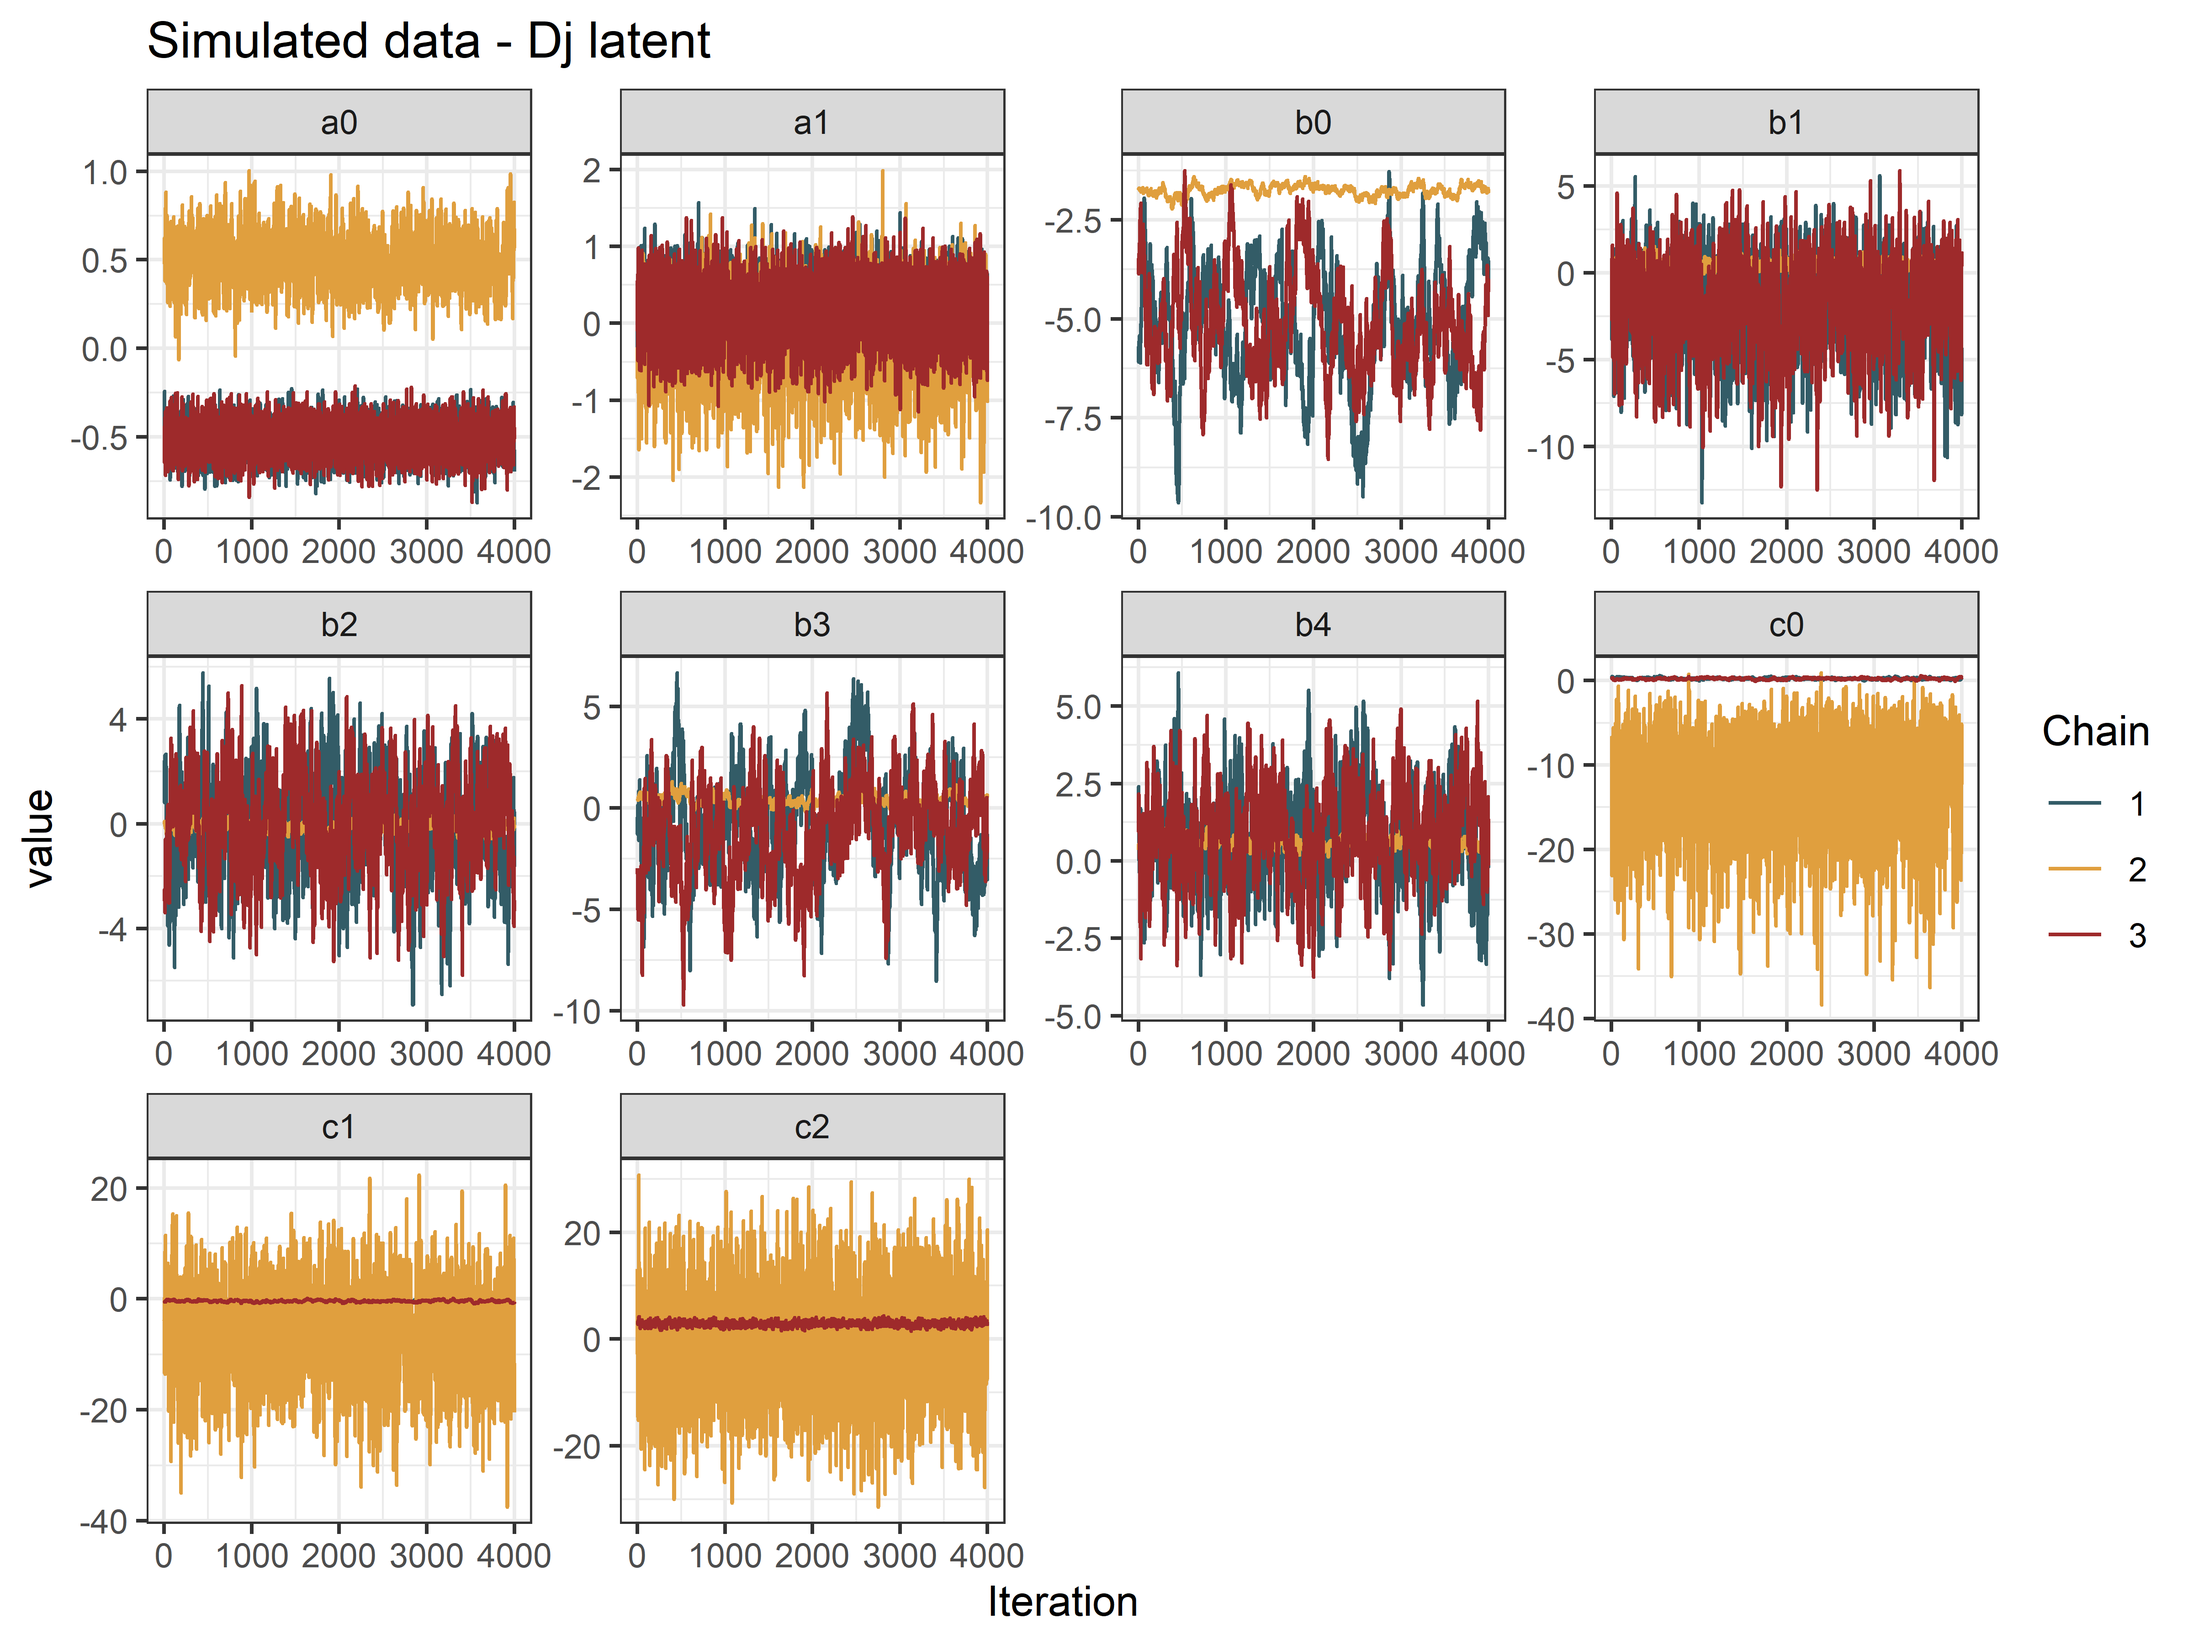
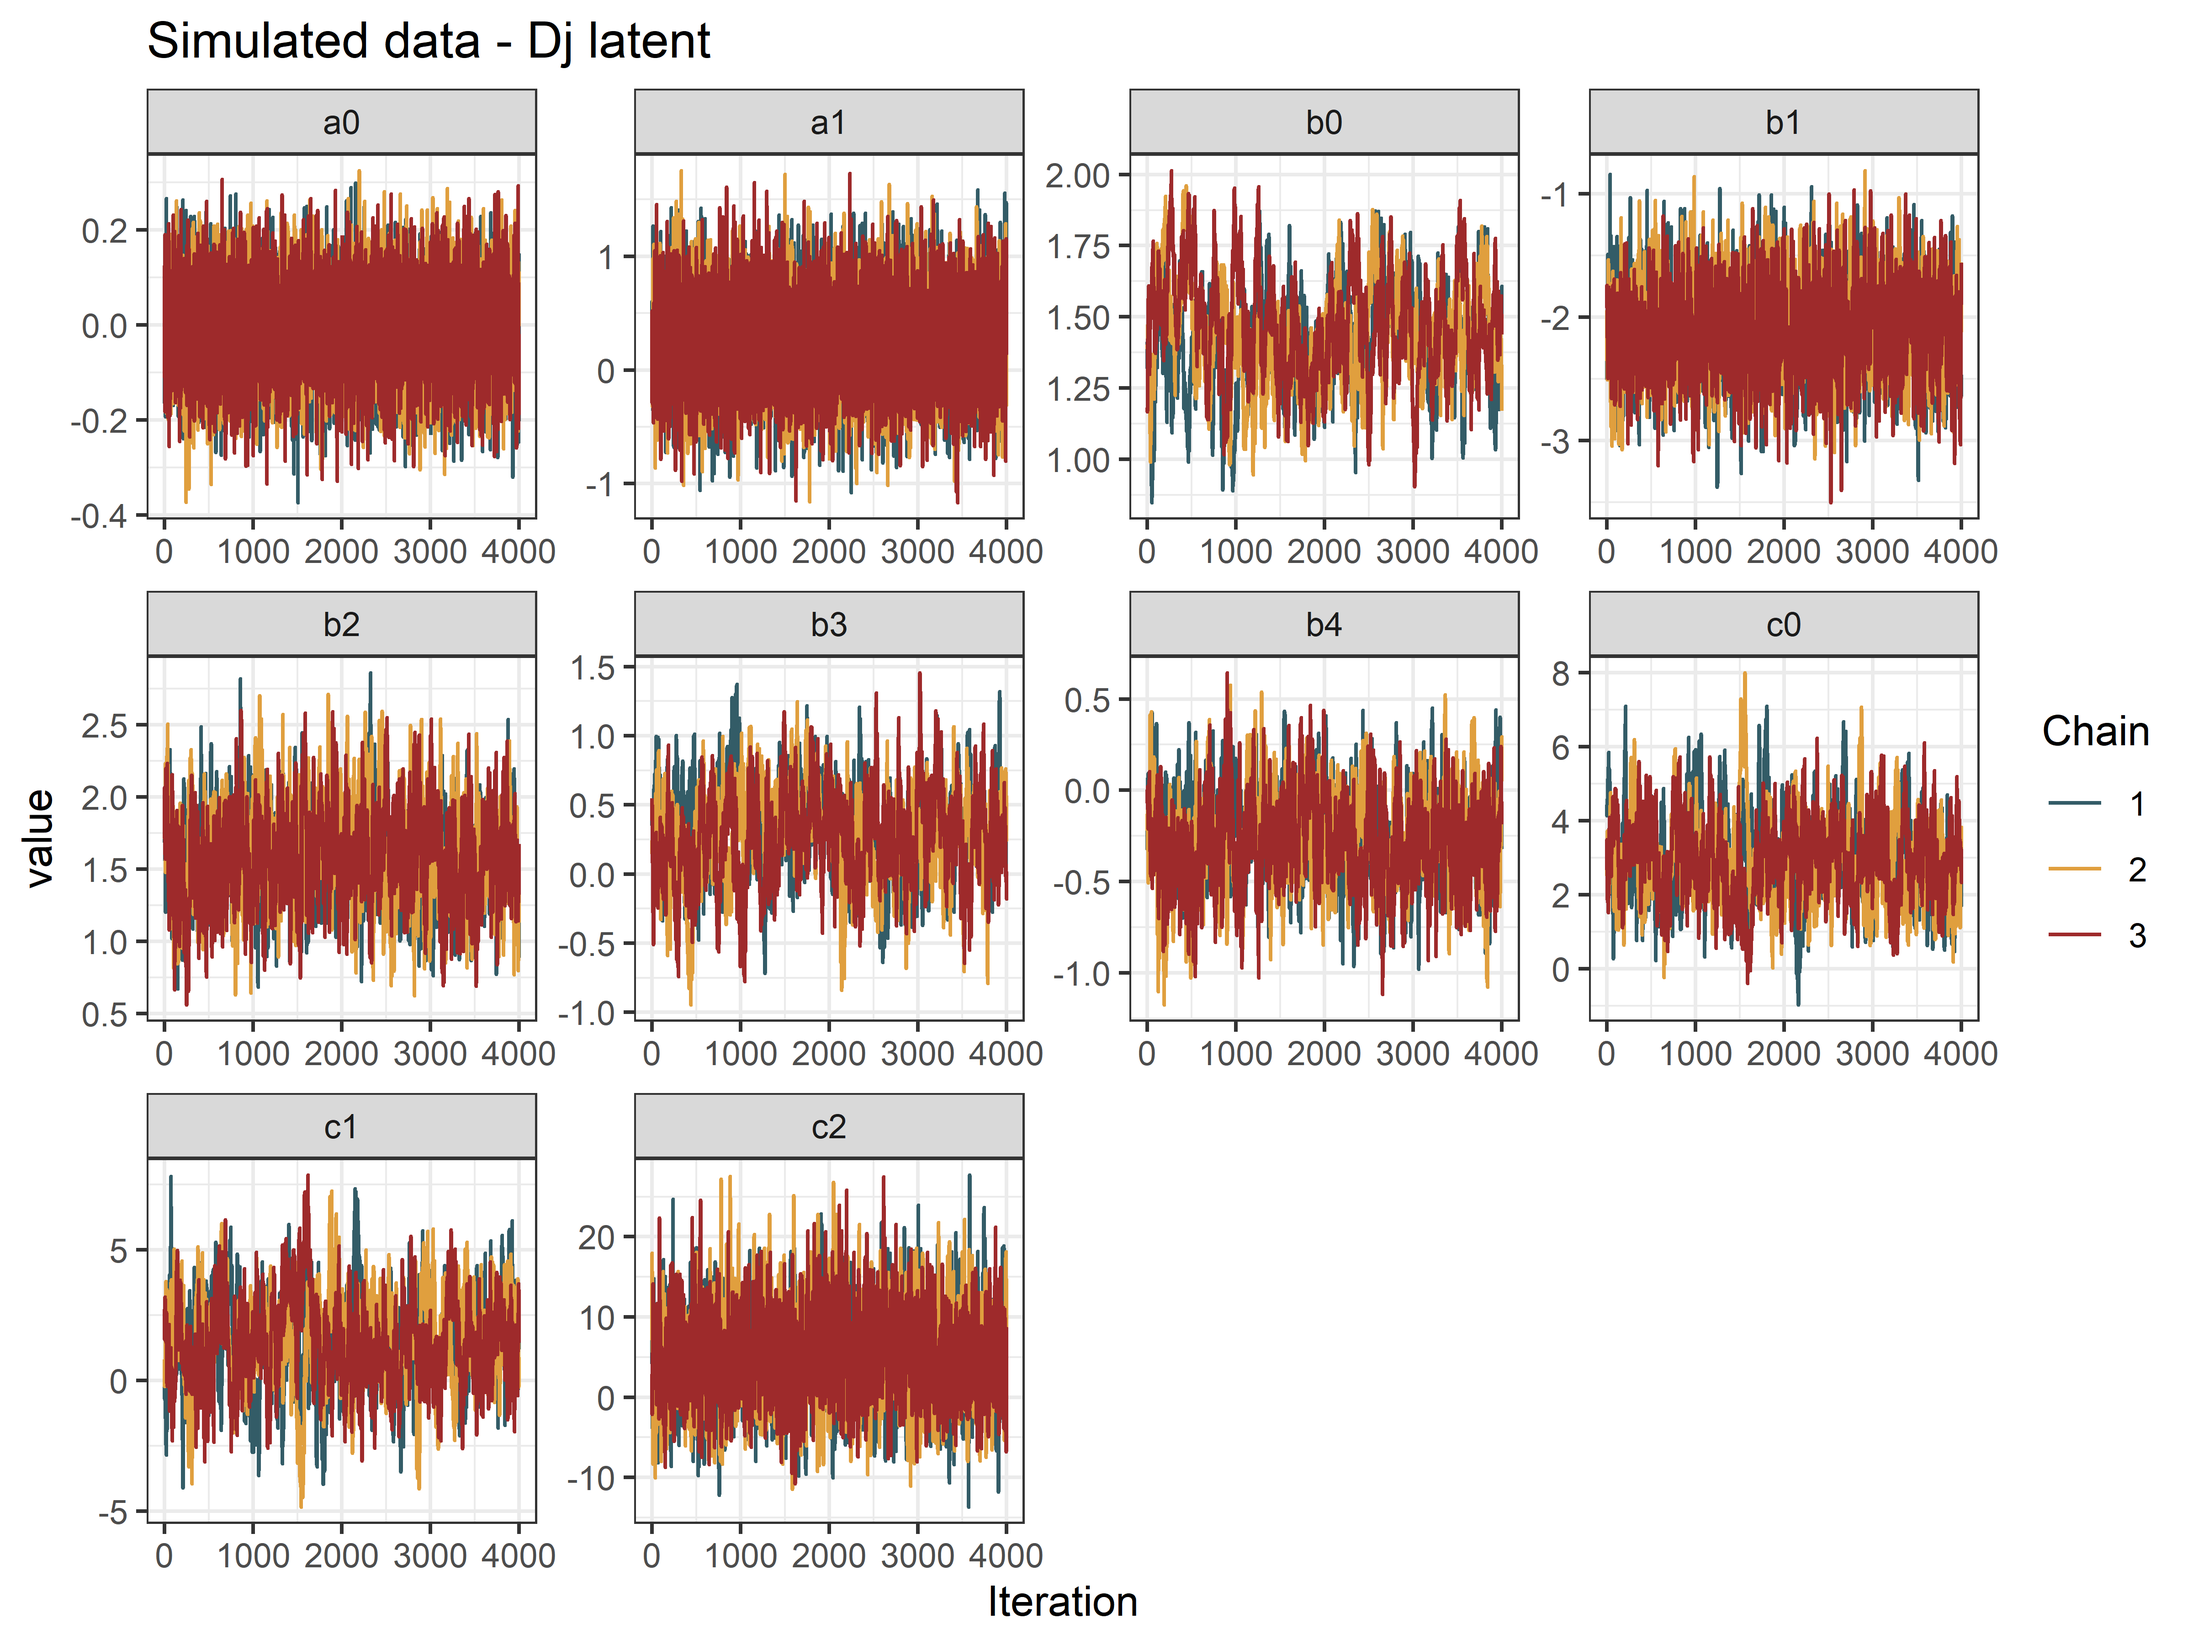
Fixed the parameter values when generating data, and provided informative priors.

diff --git a/index.md b/index.md
@@ -543,7 +543,6 @@ Comparison of true simulated parameter value and fitted values.
 
 ```r
 tar_read(fig_compare_jags_simulated)
-#> `stat_bin()` using `bins = 30`. Pick better value with `binwidth`.
 ```
 
 <img src="plots/fig_plot-compare-parameters-simulated-1.png" style="display: block; margin: auto;" />
@@ -562,7 +561,6 @@ Comparison of true simulated parameter value and fitted values.
 
 ```r
 tar_read(fig_compare_jags_simulated_2)
-#> `stat_bin()` using `bins = 30`. Pick better value with `binwidth`.
 ```
 
 <img src="plots/fig_plot-compare-parameters-simulated-2-1.png" style="display: block; margin: auto;" />
